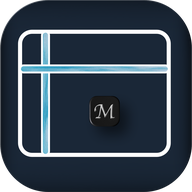
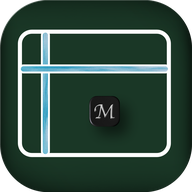
Odśwież ikony aplikacji i wymuś pobranie nowych przez cache
- Podmienione pliki PNG: favicon, apple-touch-icon oraz ikony PWA
  192/512 (zwykłe i maskable).
- Wersja ?v=20261114-logo dodana do favicony i apple-touch-icon w
  index.html oraz do wszystkich ikon w manifest.json, żeby przeglądarki
  i zainstalowane PWA nie zostawały przy starych obrazkach.
- sw.js: lista SHELL_ASSETS wskazuje te same adresy z wersją, dzięki
  czemu service worker pobiera i cache'uje nowe ikony (dotąd ikony 192
  i 512 nie miały w ogóle znacznika wersji).

diff --git a/index.html b/index.html
@@ -13,9 +13,9 @@
     <meta name="application-name" content="Sheet Workbench" />
     <meta name="apple-mobile-web-app-title" content="Sheet Workbench" />
     <meta name="apple-mobile-web-app-capable" content="yes" />
-    <link rel="icon" type="image/png" href="assets/images/favicon.png?v=20261031-logo" />
+    <link rel="icon" type="image/png" href="assets/images/favicon.png?v=20261114-logo" />
     <link rel="manifest" href="manifest.json" />
-    <link rel="apple-touch-icon" href="assets/images/apple-touch-icon.png?v=20261031-logo" />
+    <link rel="apple-touch-icon" href="assets/images/apple-touch-icon.png?v=20261114-logo" />
     <link rel="preload" as="font" type="font/woff2" href="assets/fonts/space-grotesk-latin.woff2" crossorigin />
     <link rel="preload" as="font" type="font/woff2" href="assets/fonts/space-grotesk-latin-ext.woff2" crossorigin />
     <link rel="stylesheet" href="styles/app.css?v=v1.00.21" />

diff --git a/sw.js b/sw.js
@@ -82,12 +82,12 @@ const SHELL_ASSETS = [
   `./app/cell-spill.js?v=${ASSET_V}`,
   `./app/launch-files.js?v=${ASSET_V}`,
   `./app/bootstrap.js?v=${ASSET_V}`,
-  "./assets/images/favicon.png?v=20261031-logo",
-  "./assets/images/apple-touch-icon.png?v=20261031-logo",
-  "./assets/images/icon-192.png",
-  "./assets/images/icon-512.png",
-  "./assets/images/icon-maskable-192.png",
-  "./assets/images/icon-maskable-512.png",
+  "./assets/images/favicon.png?v=20261114-logo",
+  "./assets/images/apple-touch-icon.png?v=20261114-logo",
+  "./assets/images/icon-192.png?v=20261114-logo",
+  "./assets/images/icon-512.png?v=20261114-logo",
+  "./assets/images/icon-maskable-192.png?v=20261114-logo",
+  "./assets/images/icon-maskable-512.png?v=20261114-logo",
   "./assets/images/logo-mateusz-transparent.webp",
   "./assets/images/logo-mateusz-orange.webp",
   "./assets/images/logo-refresh.webp",
